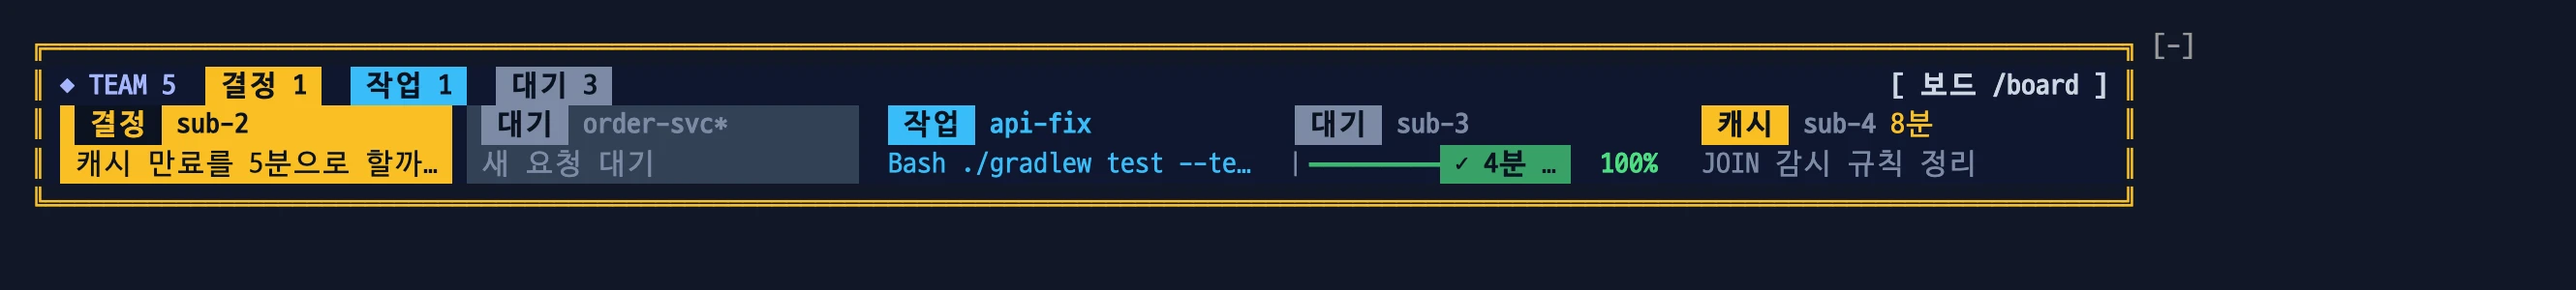
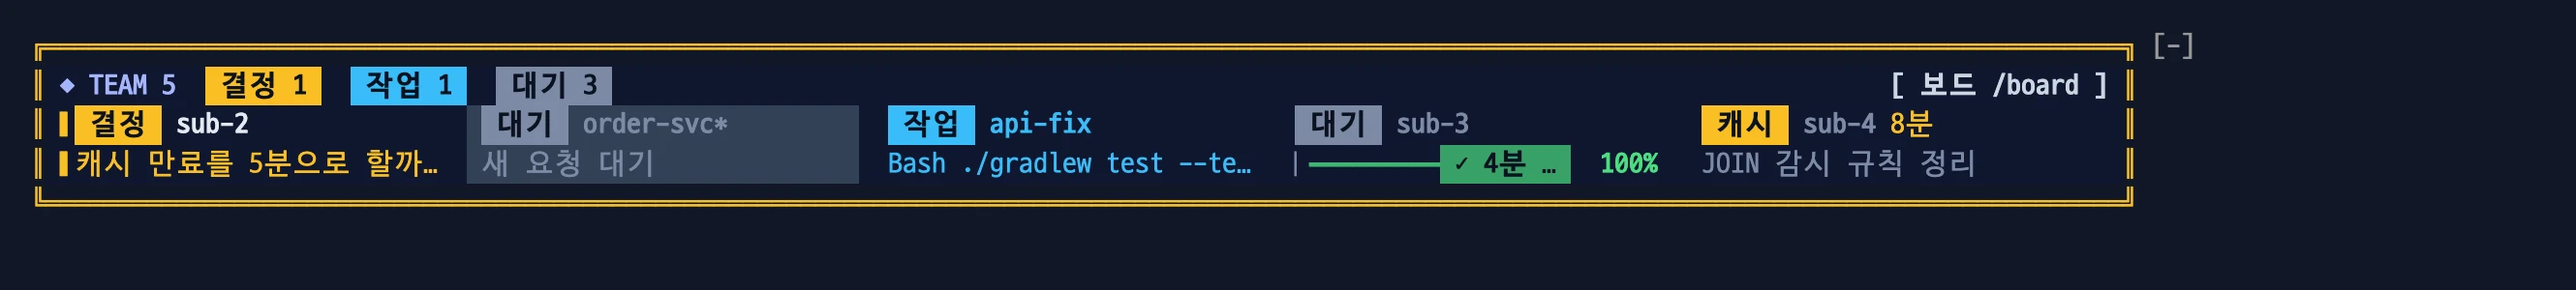
README: re-shoot nine team-board screenshots for the 0.27 decision display
Claude-Session: https://claude.ai/code/session_0171W1s1WD2Q3wd3CeGP9kTN

Changed region(s): [[0.0, 0.33, 0.1872, 0.66]]

diff --git a/README.md b/README.md
@@ -78,7 +78,7 @@ claude plugin uninstall team-board@devflow-mods   # 삭제
 
 ## 🧭 team-board: 팀 상황판
 
-<img src="docs/images/hud.webp" alt="팀 창: 결정 대기 sub-2 는 노란 칸, 작업 중 api-fix 는 파란 배지, 끝난 sub-3 은 초록 진행 막대, sub-4 는 캐시 8분 남음" width="760">
+<img src="docs/images/hud.webp" alt="팀 창: 결정 대기 sub-2 는 노란 ▌ 막대와 노란 질문 요약, 작업 중 api-fix 는 파란 배지, 끝난 sub-3 은 초록 진행 막대, sub-4 는 캐시 8분 남음" width="760">
 
 같은 저장소에서 실행 중인 Claude Code 세션을 모두 보여 줍니다. 워크트리도 포함합니다.
 
@@ -107,7 +107,7 @@ claude plugin uninstall team-board@devflow-mods   # 삭제
 
 결정 대기 카드의 탭을 누르면 Haiku가 그 질문을 풀어 설명합니다. `12살` 은 비유와 선택지별 흐름 그림, `ASD-STE100` 은 "X를 고르면 Y가 일어납니다" 꼴의 짧은 문장입니다. 설명을 다시 받으려면 탭 옆 `↻` 를, 페이지로 보려면 `[ HTML ]` 을 누르세요.
 
-<img src="docs/images/explain.webp" alt="12살 탭: 알약 진행 막대가 있는 결정 카드 아래 왜 지금, 비유, 선택지 두 개의 흐름 상자, 맥락, 먼저 정할 것" width="560">
+<img src="docs/images/explain.webp" alt="12살 탭: 알약 진행 막대와 질문 줄이 있는 결정 카드 아래 왜 지금, 비유, 선택지 두 개의 흐름 상자, 맥락, 먼저 정할 것" width="560">
 
 <img src="docs/images/ste.webp" alt="ASD-STE100 탭: 정할 것, 선택지마다 고르면 일어나는 일, 세션 제안" width="560">
 
@@ -115,7 +115,7 @@ claude plugin uninstall team-board@devflow-mods   # 삭제
 
 턴은 끝났지만 서브에이전트가 아직 도는 세션은 ` 대기 ` 가 아니라 ` 보조 ` 배지와 `보조 n개 기다리는 중` 으로 보입니다. `/board <세션>` 에서 에이전트마다 하는 일, 지금 도구, 경과 시간, 끝난 뒤 토큰을 봅니다.
 
-<img src="docs/images/agents-band.webp" alt="팀 창: api-fix 칸에 보조 배지와 보조 1개 기다리는 중" width="760">
+<img src="docs/images/agents-band.webp" alt="팀 창: 결정 대기 sub-2 는 노란 ▌ 막대, api-fix 칸에 보조 배지와 보조 1개 기다리는 중" width="760">
 
 <img src="docs/images/agents.webp" alt="/board api-fix: 카드의 보조 줄 두 개(↳ 1 Grep 실행 중, ↳ 2 끝남)와 아래 보조 에이전트 목록(끝난 것 21k 토큰)" width="560">
 
@@ -129,13 +129,13 @@ claude plugin uninstall team-board@devflow-mods   # 삭제
 
 `/board sub-3` 은 할 일, 결정 기록(질문 → 답), 흐름(요청 → 질문 → 결정 → 완료)을 시간 순으로 보여 줍니다. 흐름 줄을 누르면 그 원문 전체가 클립보드에 복사됩니다. 다른 세션에 같은 요청을 다시 보낼 때 씁니다.
 
-<img src="docs/images/flow.webp" alt="/board sub-3: 알약 진행 막대가 있는 작업 카드, 할 일 4개(끝남 4분 12초 · 끝남 6분 18초 · 진행 중 20분 41초 · 대기), 결정 기록 1건, 흐름 여섯 줄" width="560">
+<img src="docs/images/flow.webp" alt="/board sub-3: 알약 진행 막대가 있는 작업 카드, 할 일 4개(끝남 4분 12초 · 끝남 6분 18초 · 진행 중 20분 34초 · 대기), ✓ 결정 기록 1건, 흐름 여섯 줄" width="560">
 
 **6. 좁은 패널에서 보기**
 
 Orca 도크처럼 좁은 패널에서는 카드 머리줄이 덜 중요한 것(ctx 막대, 몇 초 전, 캐시)부터 덜어 내 한 줄을 지킵니다. 탭 줄은 탭 단위로 줄을 바꿉니다.
 
-<img src="docs/images/narrow.webp" alt="40칸 패널: 카드 머리줄 한 줄(ctx 20% 만 남김), 알약 진행 막대, 탭 줄이 세 줄로 나뉨, ASD-STE100 펼침" width="300">
+<img src="docs/images/narrow.webp" alt="40칸 패널: 카드 머리줄 한 줄(ctx 20% 만 남김), 알약 진행 막대, 접힌 질문 줄에도 ┃ 막대, 탭 줄이 세 줄로 나뉨, ASD-STE100 펼침" width="300">
 
 팀 창 모양, 세션 이름, 카드 기호, 숨은 실패 판정 규칙, 기록하는 내용은 [docs/team-board.md](docs/team-board.md)를 보세요.
 
